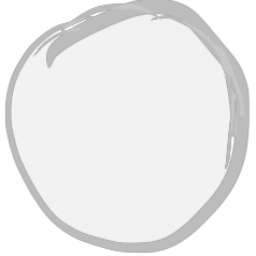
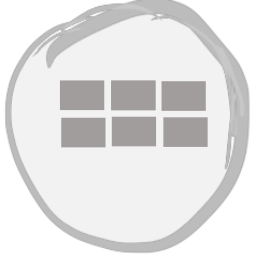
Dedicated menu button

Changed region(s): [[0.2188, 0.3125, 0.8125, 0.5938]]

diff --git a/src/scenes/pause.ts b/src/scenes/pause.ts
@@ -6,7 +6,7 @@
 
 import { BaseScene } from './basescene';
 import { SoundHelper } from '../helpers/soundhelper';
-import __imageQuit from '../assets/images/button_left.png';
+import __imageMenu from '../assets/images/button_menu.png';
 import __imageRetry from '../assets/images/button_retry.png';
 import __imageResume from '../assets/images/button_right.png';
 import __imagePause from '../assets/images/pause.png';
@@ -22,7 +22,7 @@ export class Pause extends BaseScene {
   }
 
   preload(): void {
-    this.load.image('quit', __imageQuit);
+    this.load.image('menu', __imageMenu);
     this.load.image('retry', __imageRetry);
     this.load.image('resume', __imageResume);
     this.load.image('pausestub', __imagePause);
@@ -45,7 +45,7 @@ export class Pause extends BaseScene {
     let pause = this.add.sprite(dims.width / 2, dims.height / 2, 'pausestub') as Phaser.GameObjects.Sprite;
     pause.setDisplaySize(dims.width / 2, dims.width * 0.75 / 2);
 
-    btn = this.add.sprite(dims.width * 0.3, dims.height - margin, 'quit') as Phaser.GameObjects.Sprite;
+    btn = this.add.sprite(dims.width * 0.3, dims.height - margin, 'menu') as Phaser.GameObjects.Sprite;
     btn.setDisplaySize(btnsize, btnsize);
     btn.setInteractive();
     btn.on('pointerdown', function (this: Pause, pointer: string | symbol) {

diff --git a/src/scenes/scores.ts b/src/scenes/scores.ts
@@ -6,7 +6,7 @@
 
 import { BaseScene } from './basescene';
 import { SoundHelper } from '../helpers/soundhelper';
-import __imageLeft from '../assets/images/button_left.png';
+import __imageMenu from '../assets/images/button_menu.png';
 import __imageRetry from '../assets/images/button_retry.png';
 import __imageRight from '../assets/images/button_right.png';
 import __imageTrophy from '../assets/images/trophy.png';
@@ -22,7 +22,7 @@ export class Scores extends BaseScene {
   }
 
   preload(): void {
-    this.load.image('left', __imageLeft);
+    this.load.image('menu', __imageMenu);
     this.load.image('retry', __imageRetry);
     this.load.image('next', __imageRight);
     this.load.image('trophy', __imageTrophy);
@@ -45,7 +45,7 @@ export class Scores extends BaseScene {
     let trophy = this.add.sprite(dims.width / 2, dims.height / 2, 'trophy') as Phaser.GameObjects.Sprite;
     trophy.setDisplaySize(dims.width / 2, dims.width / 2);
 
-    btn = this.add.sprite(dims.width * 0.3, dims.height - margin, 'left') as Phaser.GameObjects.Sprite;
+    btn = this.add.sprite(dims.width * 0.3, dims.height - margin, 'menu') as Phaser.GameObjects.Sprite;
     btn.setDisplaySize(btnsize, btnsize);
     btn.setInteractive();
     btn.on('pointerdown', function (this: Scores, pointer: string | symbol) {

diff --git a/src/scenes/menu.ts b/src/scenes/menu.ts
@@ -7,7 +7,7 @@ import { BaseScene } from './basescene';
 import { SoundHelper } from '../helpers/soundhelper';
 import __imageLeft from '../assets/images/button_left.png';
 import __imageRight from '../assets/images/button_right.png';
-import __imageMenu from '../assets/images/button_menu.png';
+import __imageMenu from '../assets/images/button_menu_level.png';
 import __musicTheme from '../assets/music/theme.mp3';
 import __soundBlop from '../assets/sounds/blop.mp3';
 
@@ -31,7 +31,7 @@ export class Menu extends BaseScene {
   preload(): void {
     this.load.image('left', __imageLeft);
     this.load.image('right', __imageRight);
-    this.load.image('menu', __imageMenu);
+    this.load.image('menulvl', __imageMenu);
     this.load.audio('theme', __musicTheme);
     this.load.audio('blop', __soundBlop);
   }
@@ -90,7 +90,7 @@ export class Menu extends BaseScene {
   }
 
   createMenuButton(text: string, level: number, xpos: number, ypos: number, width: number, height: number): void {
-    let btn = this.add.sprite(xpos, ypos, 'menu') as Phaser.GameObjects.Sprite;
+    let btn = this.add.sprite(xpos, ypos, 'menulvl') as Phaser.GameObjects.Sprite;
     btn.setOrigin(0, 0);
     btn.setDisplaySize(width, height);
     btn.setInteractive();
